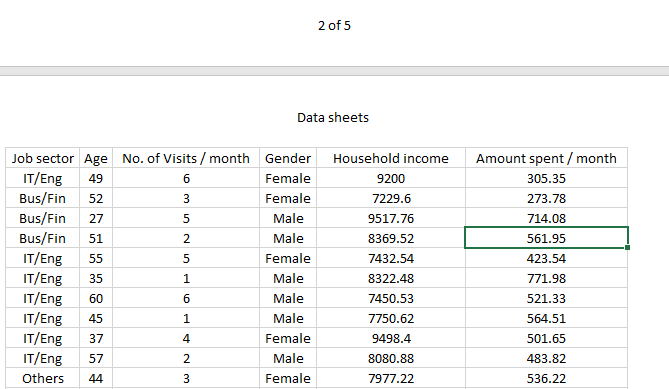
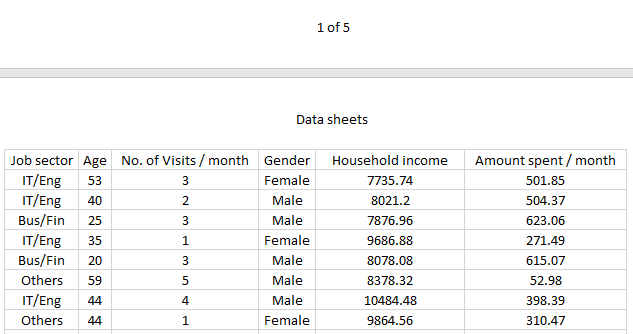
finished print title

diff --git a/_posts/2021-04-07-personal-excel-basics.md b/_posts/2021-04-07-personal-excel-basics.md
@@ -83,7 +83,7 @@ Using the syntax: ='sheet_name'!cell_number, values of one sheet can be called f
 
 ***
 
-Header and footer
+Printing an Excel spread sheet
 
 ***
 Header and footers can be inserted when an excel sheet needs to be printed. There are options to change to the 'Header and Footer' view from either the top menu bar or the bottom left.
@@ -108,6 +108,15 @@ Any addition made to a header and footer of one page will automatically be copie
 |<em>Footer output, auto-generated, page 1</em>|
 |![header and footer top eg](/assets/images/personal-excel-basics/header_footer_bottom_eg_op-2.png)|
 |<em>Footer output, auto-generated, page 2</em>|
+
+To ensure that individual pages have the proper headings or columns, we need to use the 'print title' option under the 'page layout' tab.
+
+|![print title options](/assets/images/personal-excel-basics/print_title.png)|
+|<em>print title options</em>|
+|![print title before](/assets/images/personal-excel-basics/print_title_before.png)|
+|<em>before print title</em>|
+|![print title before](/assets/images/personal-excel-basics/print_title_after.png)|
+|<em>after print title</em>|
 
 
 ***
